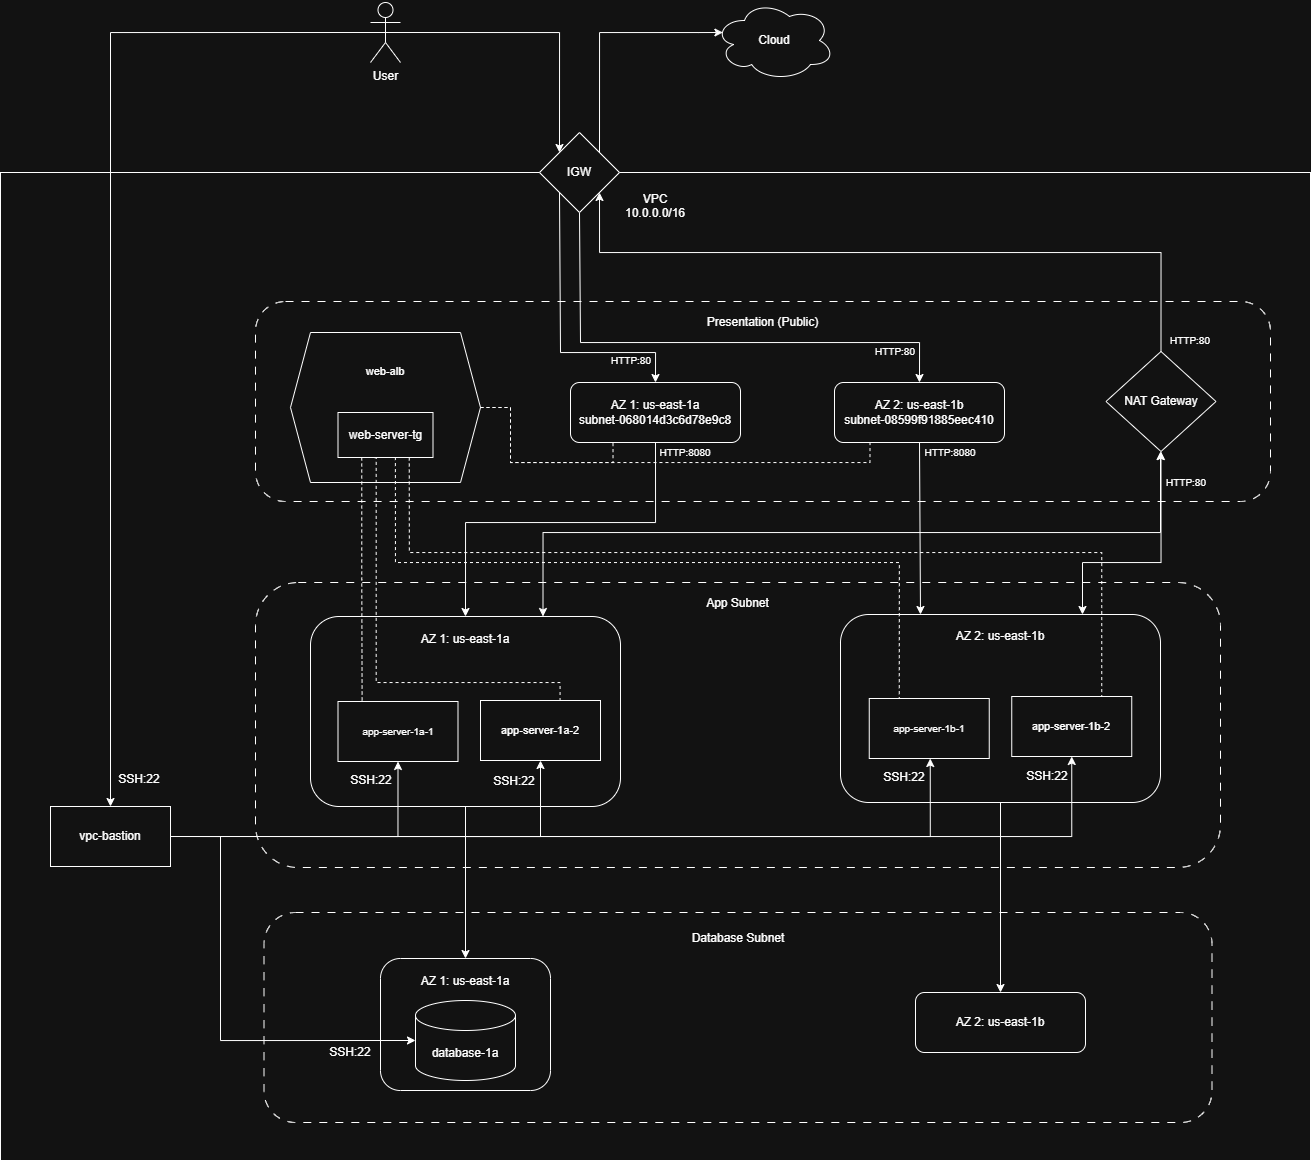
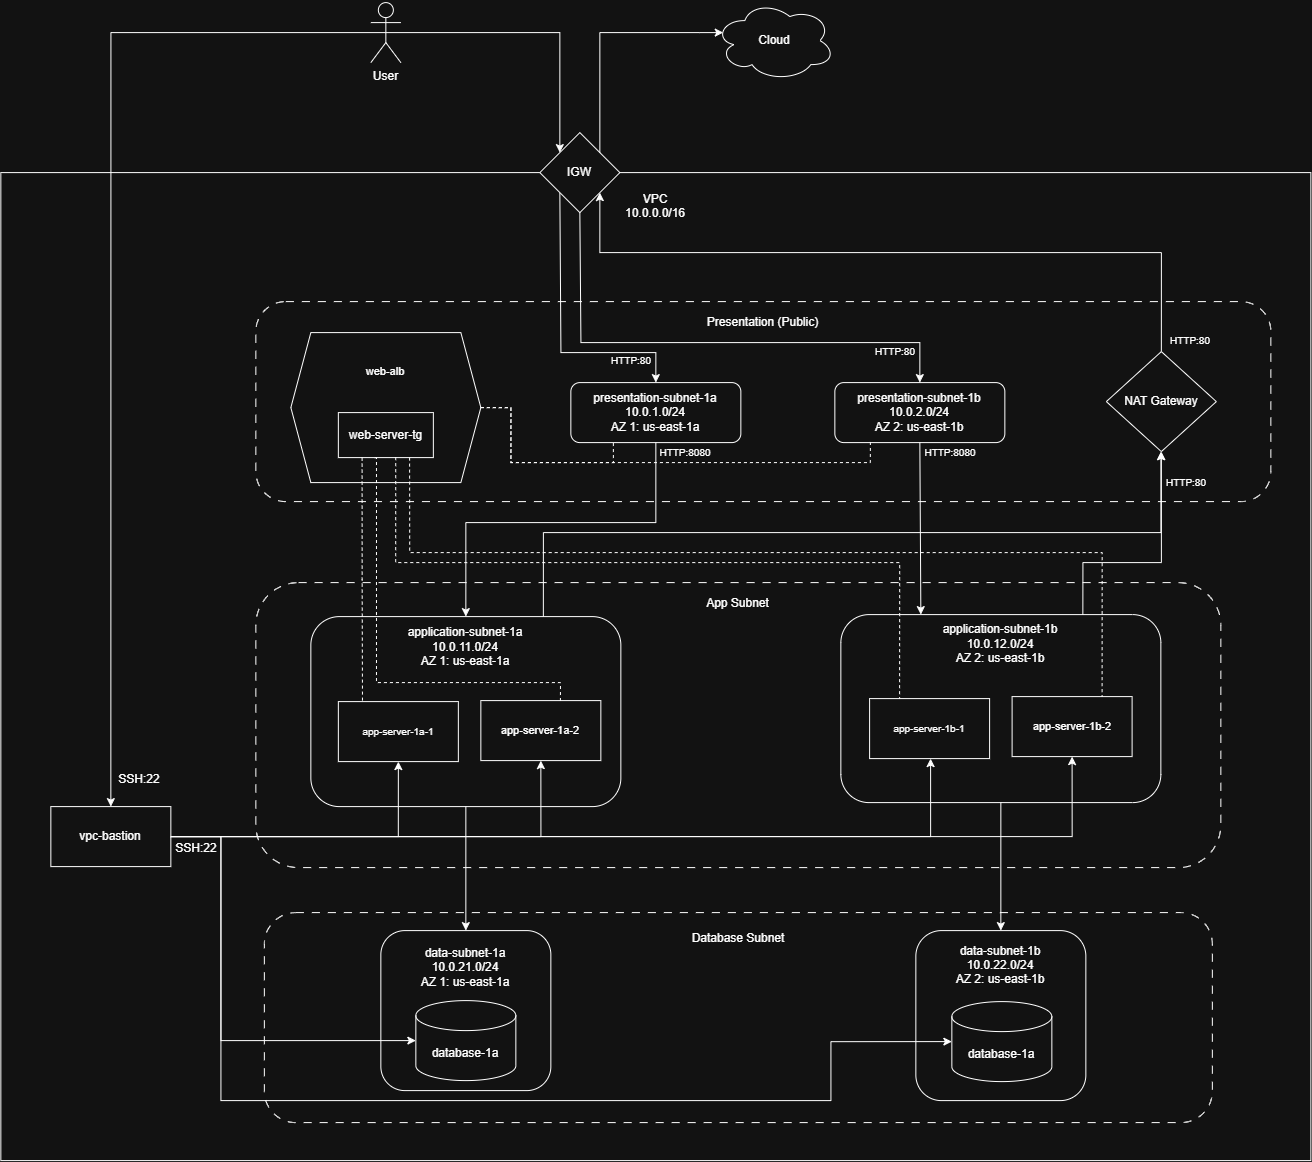
Update Diagrams

diff --git a/README.md b/README.md
@@ -6,6 +6,9 @@ The purpose of the project is the design, building and deployment of a complete 
 
 ## Architecture description
 
+** Architecture Diagram: General overview **
+![Architecture Diagram](architecture/architecture-diagram.png)
+
 - VPC with Networking Segmentation
 
 - 3-tier architecture 

diff --git a/SECURITY.md b/SECURITY.md
@@ -2,6 +2,9 @@
 
 ## Security Group Rules
 
+** Security Group Diagram **
+![Security Group Diagram](architecture/security-groups-diagram.png)
+
 ### vpc-bastion
 
 | Direction | Port | Source / Destination | Purpose |